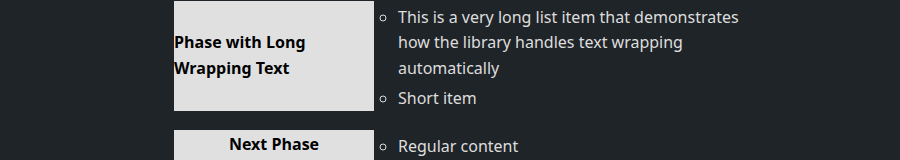
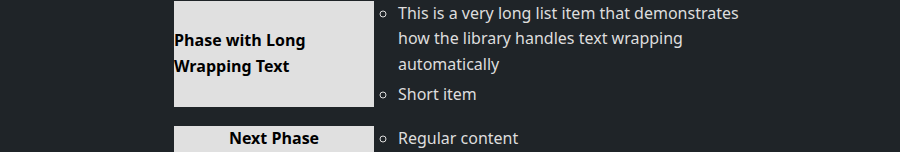
test/docs: migrate screenshots to Playwright; refresh docs
Problem: Generating docs screenshots via a bespoke Node script was brittle, required a local HTTP server, and wasn’t integrated with our test tagging. Chevron docs also included a "direct content" example we no longer want to promote.

Changes: \n- Replace screenshot.js with Playwright test (tests/screenshots.spec.ts) that navigates routes, captures [data-example] elements, and encodes to WebP via sharp.\n- Update package.json: run screenshots via Playwright; default tests skip @slow; prepublish runs lint, build, screenshots, and tests.\n- Update chevron.md: rename section to "Ordered List" and drop "Direct Content" example; add docs/chevron-ordered.webp.\n- Refresh stack *.webp assets to match current rendering.

Review: \n- Validate route list in tests/screenshots.spec.ts matches docs site.\n- Confirm prepublish order and @slow filtering meet CI expectations.\n- Ensure sharp is available in the environment where screenshots run.

Risks & mitigations: \n- Running screenshots under Playwright may increase prepublish time (mitigated by @slow default skip; invoked only for screenshot script).\n- Behavior differences vs. old script (navigation/utilities) (mitigated by shared tests/utils.ts gotoHash helper).

diff --git a/tests/screenshots.spec.ts b/tests/screenshots.spec.ts
@@ -1,0 +1,36 @@
+import { test } from "@playwright/test";
+import sharp from "sharp";
+import path from "path";
+import { gotoHash } from "./utils";
+
+const routes: { hash: string; name: string }[] = [
+  { hash: "", name: "home" },
+  { hash: "chevron", name: "chevron" },
+  { hash: "column", name: "column" },
+  { hash: "stack", name: "stack" },
+  { hash: "themes", name: "themes" },
+];
+
+test("generate example screenshots", { tag: ["@slow"]}, async ({ page }) => {
+  test.slow();
+  for (const { hash, name } of routes) {
+    await gotoHash(page, hash);
+    const examples = page.locator(".markdown-section [data-example]");
+    const count = await examples.count();
+    if (!count) continue;
+
+    for (let i = 0; i < count; i++) {
+      const el = examples.nth(i);
+      const filename = await el.getAttribute("data-example");
+      if (!filename) continue;
+      const target = path.join("docs", filename);
+      const buf = await el.screenshot({ type: "png" });
+      const q = await el.getAttribute("data-quality");
+      const opts = q ? { quality: +q, effort: 6 } : { lossless: true, quality: 100, effort: 6 };
+      await sharp(buf)
+        .webp(opts as any)
+        .toFile(target);
+      console.log(`screenshot: ${name}: ${target}`);
+    }
+  }
+});

diff --git a/chevron.md b/chevron.md
@@ -288,7 +288,7 @@ Add any of the `sm-theme-*` classes available in [themes](themes.md). For exampl
 </div>
 ```
 
-### Ordered List and Direct Content
+### Ordered List
 
 ```markdown :example="chevron-ordered.webp"
 <div class="sm-chevron">
@@ -299,17 +299,6 @@ Add any of the `sm-theme-*` classes available in [themes](themes.md). For exampl
 2. **Two**
    1. Alpha
    2. Beta
-
-</div>
-```
-
-```markdown :example="chevron-direct.webp"
-<div class="sm-chevron">
-
-- **With Div**
-  <div>Custom HTML content</div>
-- **With Image**
-  <img src="https://picsum.photos/120/60" alt="pic" />
 
 </div>
 ```
